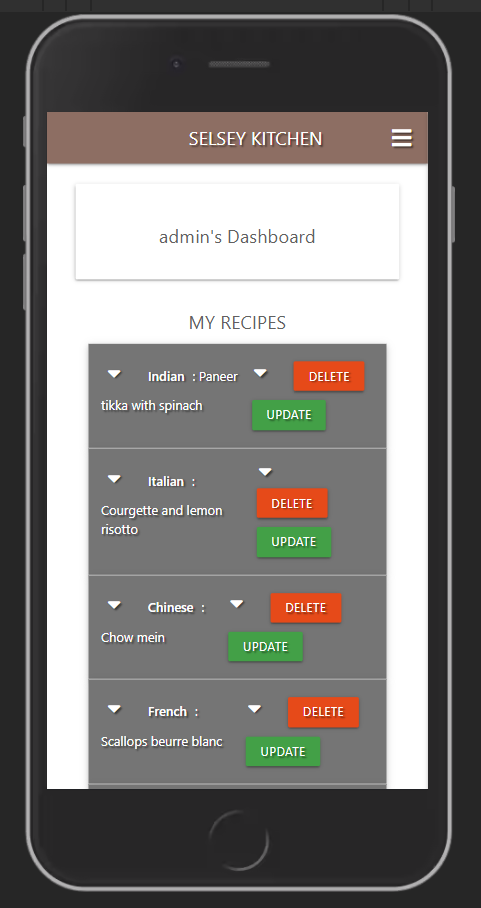
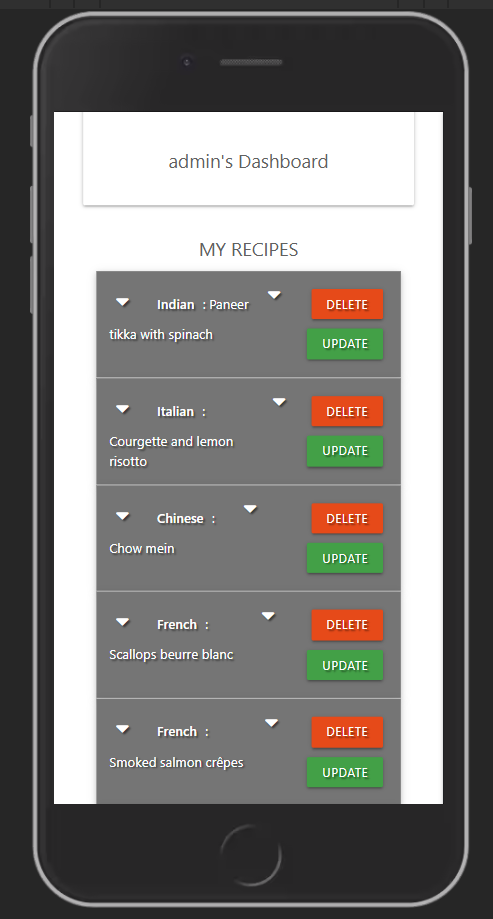
button alignment, image change

diff --git a/static/css/style.css b/static/css/style.css
@@ -17,6 +17,7 @@ nav .brand-logo {
 
 .btn-small {
     margin: 5px;
+    float: right;
 }
 
 .collapsible-header .col strong {
@@ -34,11 +35,6 @@ nav .brand-logo {
 }
 
 #recipe-image {
-    background-repeat: no-repeat;
-    background-position: center;
-    position: relative;
-    background-size: cover;
-    max-width: 100%;
     overflow: hidden;
     height: auto;
 }
